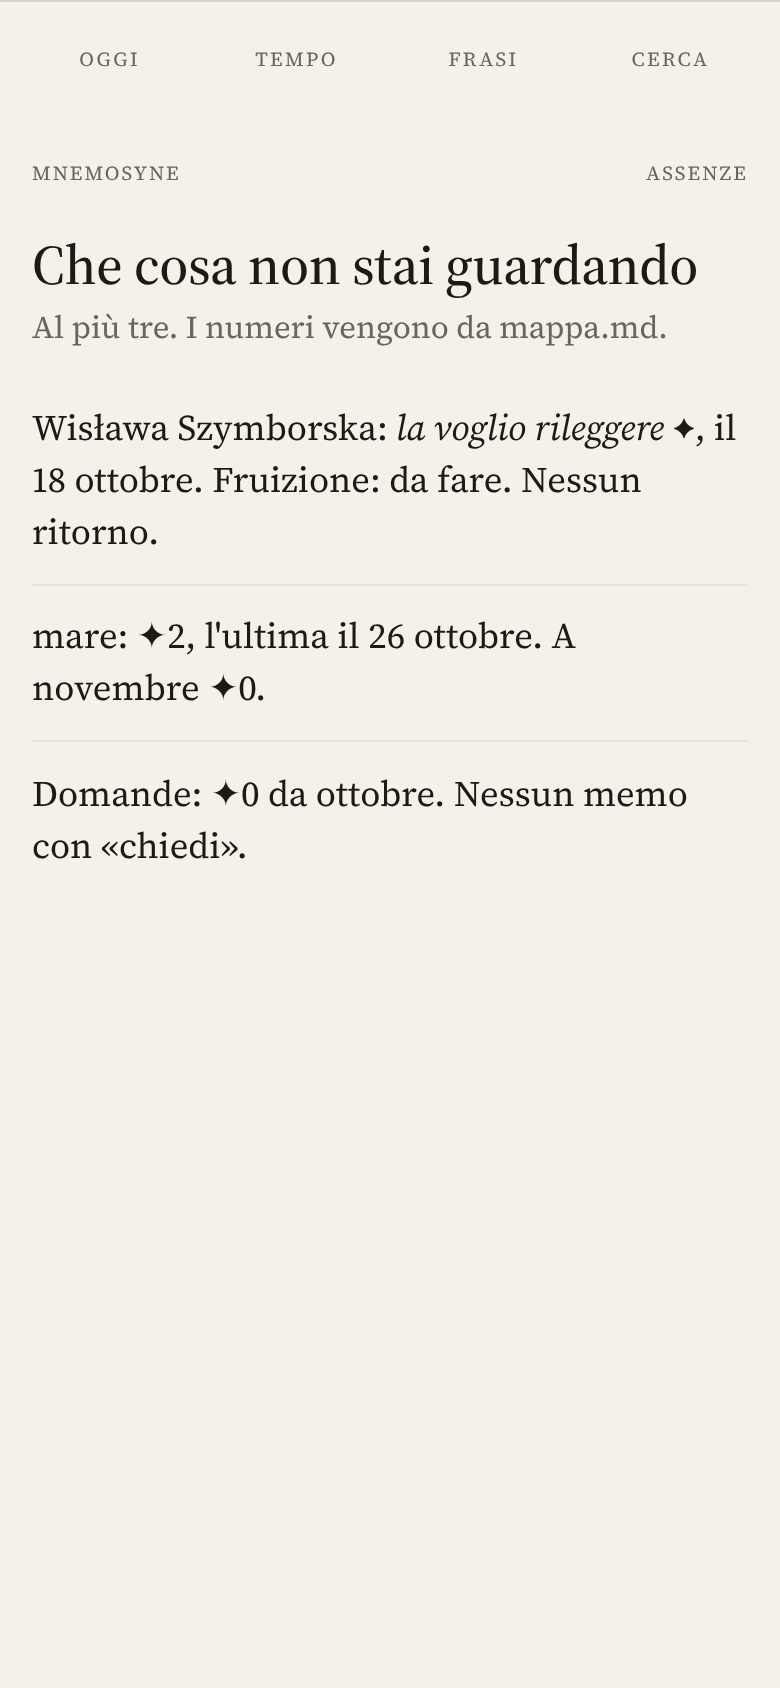
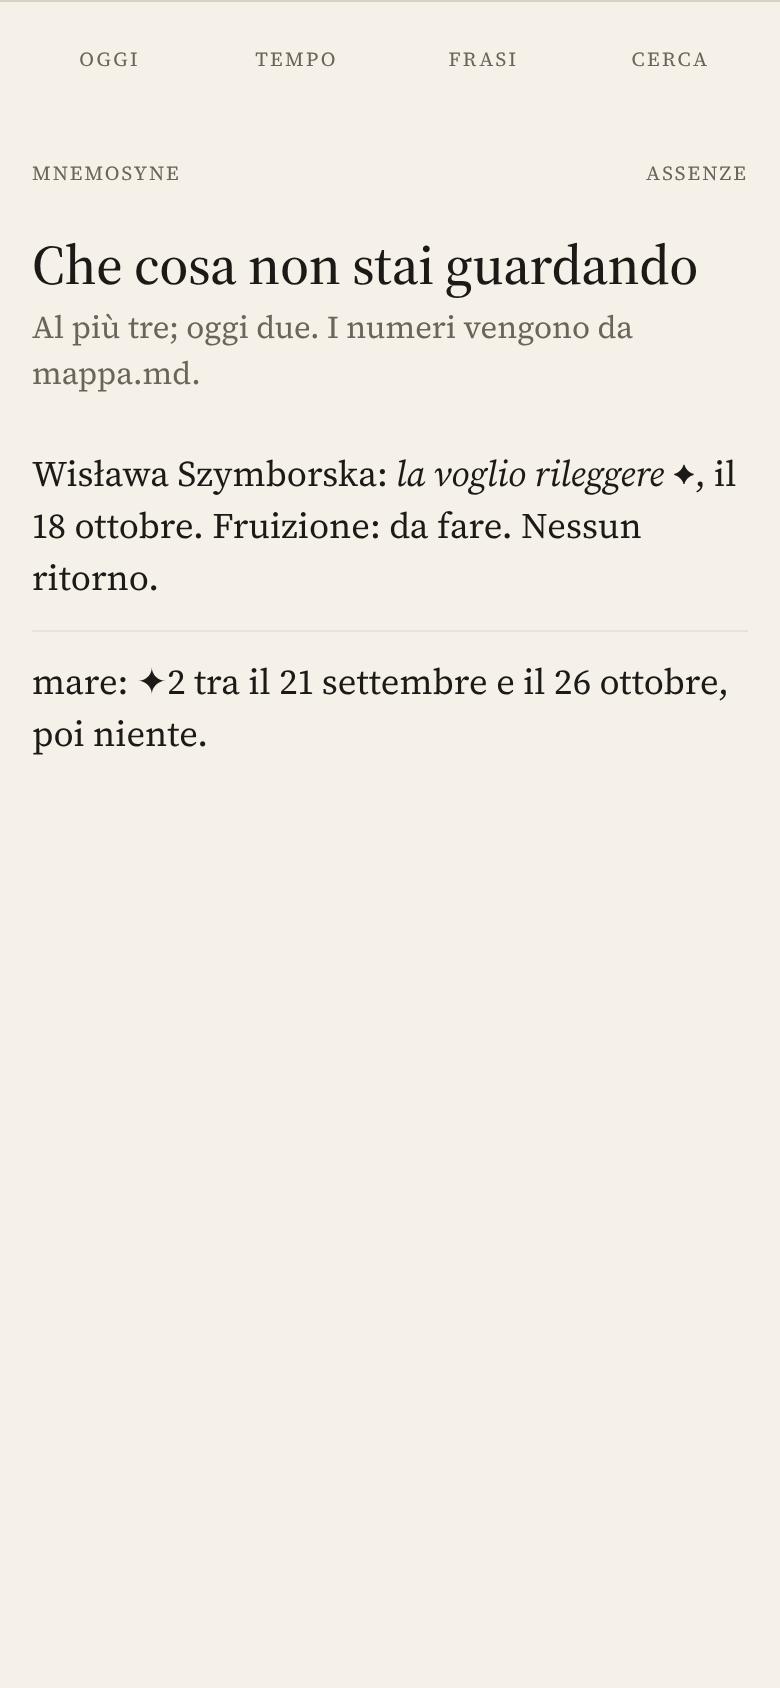
sito: progetto con gli esiti dei giudici e prototipo dopo il terzo giro
Claude-Session: https://claude.ai/code/session_016XqAM1Rx8kqhHBvQKPgQvy

diff --git a/progetto/sito/prototipo/index.html b/progetto/sito/prototipo/index.html
@@ -213,7 +213,8 @@ details[open] summary::before { content: "－ "; }
 mark { background: none; color: inherit; text-decoration: underline; text-decoration-thickness: 2px; text-underline-offset: .15em; }
 
 /* Il tempo: quadratini tutti uguali, senza scala */
-.nodo-soglia { padding-top: 6svh; }
+.nodo-soglia { padding-top: 6svh; min-height: 0; padding-bottom: 3em; }
+.piede .strati { margin: .2em 0 0; font-size: .66em; }
 .nodo-soglia h1 { margin-bottom: 1.2em; }
 .giorni { display: grid; grid-template-columns: repeat(7, 14px); gap: 4px; margin: .4em 0 .8em; }
 .giorni i { width: 14px; height: 14px; border: 1px solid var(--filo); border-radius: 2px; }
@@ -287,7 +288,7 @@ const NODI = {
   'le-citta-invisibili': { nome: 'Le città invisibili', genere: 'opere', autore: 'Italo Calvino', anno: 1972, conto: '✦2 · fruizione: fatta' },
   'wislawa-szymborska': { nome: 'Wisława Szymborska', genere: 'persone', cerchia: 'mondo', conto: '✦1 · fruizione: da fare' },
   'simone-weil': { nome: 'Simone Weil', genere: 'persone', cerchia: 'mondo', conto: '○1' },
-  'quello-che-cerchi-ti-sta-cercando': { nome: 'Quello che cerchi ti sta cercando', genere: 'citazioni', attribuita: 'Rumi', esito: null, conto: '✦1 · ⚠' },
+  'quello-che-cerchi-ti-sta-cercando': { nome: 'Quello che cerchi ti sta cercando', genere: 'citazioni', attribuita: 'Rumi', esito: null, conto: '✦1' },
   papa: { nome: 'papà', genere: 'persone', cerchia: 'vita' },
   tatuaggi: { nome: 'tatuaggi', genere: 'raccolte', scopo: null },
 };
@@ -385,7 +386,7 @@ function foglioVoce(n) {
   const rif = `${LETTERA.id}#${n}`;
   const segno = v.voce === 'proposta' ? 'tensione ◌, lettura mia' : 'mondo ○';
   return `<p class="sc">voce ${n} · ${segno}</p>
-    <p>${v.html}</p>
+    <p class="${v.voce === 'proposta' ? 'prop' : 'mondo'}">${v.html}${sg(v.voce === 'proposta' ? 'prop' : 'mondo')}</p>
     ${v.rifTesto ? `<p class="servizio">${esc(v.rifTesto)} · esito: ${v.esito ?? 'da verificare ⚠'}</p>` : `<p class="servizio">Il nome della tensione tra il 14 e il 29 ottobre. Nessun tuo ritorno ancora.</p>`}
     <p class="servizio">Indirizzo: ${rif}</p>
     <div class="gesti">
@@ -410,14 +411,13 @@ V.nodo = (slug) => {
       </div>
       <p class="servizio" style="margin-top:1.4em">la prima tiene insieme attenzione e <a href="#/nodo/aspettare">aspettare</a> · <a href="#/nodo/attenzione/tavola">la tavola →</a></p>
     </div>
+    <p class="conto">tema · nome tuo · ${CS(n.conto)}</p>
+    <div class="piede">${strati()}</div>
+    <div class="l2"><h2>dal mondo</h2><p class="mondo">Simone Weil${sg('mondo')}<span class="luogo">lettera del 1 novembre, voce 2 · Attente de Dieu, § 4 · verificata</span></p></div>
     <h2>le altre porte</h2>
     <ul class="righe">
       <li>${frase('20261003-1930-d4f1')}</li>
       <li>${frase('20260912-0000-u01')}</li></ul>
-    ${strati()}
-    <div class="l2"><h2>dal mondo</h2><p class="mondo">Simone Weil${sg('mondo')}<span class="luogo">lettera del 1 novembre, voce 2 · Attente de Dieu, § 4 · verificata</span></p></div>
-    <button class="nascosti" data-s="2">e 1 voce dal mondo<span class="sg"> ○</span></button>
-    <p class="conto" style="margin-top:2.4em">tema · nome tuo · ${CS(n.conto)}</p>
   </div>
   <aside class="lato"><h2>anteprima</h2>
     <p><a href="#/nodo/aspettare">aspettare</a> <span class="conto">${CS(NODI.aspettare.conto)}</span></p><p class="frase">${frase('20261029-2305-p8s3')}</p></aside></div>`;
@@ -469,7 +469,7 @@ V.frammento = (id) => {
   const i = ids.indexOf(id);
   const prima = ids[i - 1], dopo = ids[i + 1];
   if (f.delicato) {
-    return `<div class="pagina">${testa(dataL(f.reg) + ' · ' + ora(f.reg))}<p class="corpo" style="margin-top:2em">${esc(f.testo)}</p></div>`;
+    return `<div class="pagina">${testa(dataL(f.reg) + ' · ' + ora(f.reg))}<p class="corpo sua" style="margin-top:2em">${esc(f.testo)}${sg('sua')}</p></div>`;
   }
   const luoghi = { '20261014-2201-g6k2': 'in apertura, accanto al 29 ottobre', '20261029-2305-p8s3': 'in apertura, accanto al 14 ottobre', '20260929-2240-c2e9': 'in chiusura' };
   const citatoIn = luoghi[id] ? `<li><a href="#/r/${LETTERA.id}">Lettera di domenica 1 novembre</a> <span class="servizio">· ${luoghi[id]}</span></li>` : '';
@@ -488,7 +488,7 @@ V.frammento = (id) => {
       ${prima ? `<a href="#/frammento/${prima}"><small>← giorno prima</small>${dataL(F[prima].reg)}</a>` : '<span></span>'}
       ${dopo ? `<a href="#/frammento/${dopo}" style="text-align:right"><small>giorno dopo →</small>${dataL(F[dopo].reg)}</a>` : '<span></span>'}
       ${(f.temi || []).length ? `<a href="#/nodo/${f.temi[0]}"><small>nel filo</small>${NODI[f.temi[0]].nome}</a>` : ''}
-      ${(() => { const t = (f.temi || [])[0]; if (!t) return ''; const v = Object.keys(F).find((k) => k !== id && !F[k].delicato && (F[k].temi || []).includes(t) && gg(F[k].reg, f.reg) > 7); return v ? `<a class="l2" href="#/frammento/${v}" style="text-align:right"><small>◌ vicino · anche lei su «${NODI[t].nome}»</small>${dataL(F[v].reg)}</a>` : ''; })()}
+      ${(() => { const t = (f.temi || [])[0]; if (!t) return ''; const v = Object.keys(F).find((k) => k !== id && !F[k].delicato && (F[k].temi || []).includes(t) && gg(F[k].reg, f.reg) > 7); return v ? `<a class="l2" href="#/frammento/${v}" style="text-align:right"><small>◌ vicino · anche lei su ${NODI[t].nome}</small>${dataL(F[v].reg)}</a>` : ''; })()}
     </div>
   </div>`;
 };
@@ -513,7 +513,7 @@ V.tempo = () => {
     </section>
     <section class="mese"><h2>ottobre 2026</h2>
       ${giorniMese(2026, 9, [3, 8, 11, 14, 18, 20, 22, 26, 29, 30])}
-      <p class="conto">9 frammenti parlanti e 1 delicato · 10 giorni attivi</p>
+      <p class="conto">9 frammenti parlanti e 1 delicato · 10 giorni attivi · e 1 link senza parole</p>
       <h2 style="margin-top:1.2em">posizioni</h2>
       <div class="pos">${frase('20261014-2201-g6k2')}<span class="luogo">dal 14 ottobre · messa in discussione il 29 ottobre</span></div>
       <div class="pos">${frase('20261029-2305-p8s3')}<span class="luogo">dal 29 ottobre · tensione con il 14 ottobre</span></div>
@@ -558,7 +558,7 @@ V.cerca = () => `<div class="pagina">${testa('cerca')}
   <div id="ris"></div></div>`;
 
 function risultati(q) {
-  q = q.trim().toLowerCase(); if (!q) return '<p class="servizio">Le tue parole, i nomi, le restituzioni.</p>';
+  q = q.trim().toLowerCase(); if (!q) return '<p class="servizio">Le tue parole e i nomi.</p>';
   const norm = (s) => s.normalize('NFD').replace(/\p{M}/gu, '').toLowerCase();
   const tuoi = Object.keys(F).filter((id) => !F[id].delicato && !F[id].nonParlante && norm(F[id].testo).includes(norm(q))).reverse();
   const nodi = Object.keys(NODI).filter((s) => norm(NODI[s].nome).includes(norm(q)));
@@ -569,11 +569,10 @@ function risultati(q) {
 
 V.assenze = () => `<div class="pagina">${testa('assenze')}
   <h1>Che cosa non stai guardando</h1>
-  <p class="servizio">Al più tre. I numeri vengono da mappa.md.</p>
+  <p class="servizio">Al più tre; oggi due. I numeri vengono da mappa.md.</p>
   <ol class="righe">
     <li><a href="#/nodo/wislawa-szymborska">Wisława Szymborska</a>: <span class="sua">la voglio rileggere</span>${sg('sua')}, il 18 ottobre. Fruizione: da fare. Nessun ritorno.</li>
-    <li><a href="#/nodo/mare">mare</a>: ✦2, l'ultima il 26 ottobre. A novembre ✦0.</li>
-    <li>Domande: ✦0 da ottobre. Nessun memo con «chiedi».</li>
+    <li><a href="#/nodo/mare">mare</a>: ✦2 tra il 21 settembre e il 26 ottobre, poi niente.</li>
   </ol></div>`;
 
 V.tatuaggi = (stampa) => {
@@ -591,7 +590,7 @@ V.tatuaggi = (stampa) => {
     <h1>tatuaggi</h1>
     <p class="servizio" style="margin:0">senza scopo</p>
     <div class="campo-t" style="margin-top:14px">
-      <p class="legenda">${sg('sua')} tue · ${sg('mondo')} mondo${stampa ? '' : ' · ' + sg('prop') + ' mia'}</p>
+      <p class="legenda">${sg('sua')} tue · ${sg('mondo')} mondo</p>
       <div class="pezzi">
         ${pezzo('20261008-0745-e8a0')}
         <div class="filo-t">✦ linea</div>
@@ -601,7 +600,7 @@ V.tatuaggi = (stampa) => {
         <div class="filo-t">✦ faro</div>
         ${pezzo('20261027-1302-t9v4')}
       </div>
-      ${stampa ? '' : `<div class="margine">una bussola senza ago${sg('prop')} <span style="display:block;font-size:.85em">un’idea di Claude, arrivata con l’importazione · <a href="#/nodo/tatuaggi" style="color:inherit">le altre idee</a></span></div>`}
+      ${stampa ? '' : `<div class="margine"><a href="#/nodo/tatuaggi" style="color:inherit">le idee arrivate con l’importazione →</a></div>`}
     </div>
     ${stampa ? `<p class="servizio no-stampa" style="margin-top:1em">Senza proposte ◌, senza delicati, senza persone della tua vita. <a href="#/tatuaggi">← la tavola</a> · <a href="javascript:print()">stampa</a></p>` : `<p class="servizio" style="margin-top:1em"><a href="#/tatuaggi/stampa">il brief da stampare →</a></p>`}
   </div>`;

diff --git a/progetto/sito/progetto.md b/progetto/sito/progetto.md
@@ -478,13 +478,15 @@ da due o più pezzi; gli `allegati` (WebP cifrate); per i pin, il `link[].titolo
   Un pin è una carta tipografica: il titolo dal link e ↗, **nessuna miniatura e nessun embed**.
 - Un ○ dentro il pezzo, se il pezzo nomina un testo verificato: una riga tra «», con opera e passo.
 - I **fili**: un'etichetta tratteggiata tra i pezzi che condividono un nodo («✦ linea», «✦ faro»).
-- **Ai margini**, fuori dal campo, in grigio: **un solo** ◌, l'idea `eredita` più vicina ai pezzi grandi (deterministica:
-  più legami verso nodi che i pezzi ✦ nominano), e «le 6 idee ◌» che apre la pagina della raccolta (Forma A).
+- **Ai margini**, fuori dal campo: un solo link, «le idee arrivate con l'importazione →», che apre la pagina della
+  raccolta (Forma A) con le `eredita` ◌. **Nessuna idea ◌ in vista sul campo.** Vista-tatuaggi proponeva un ◌ ai
+  margini; il giudice delle regole (terzo giro) ha fatto notare che un'`eredita` «non si rilancia» (`CLAUDE.md`,
+  regola 5): mostrarne una scelta dal sito è rilanciarla. Senza conti («le 6 idee» era un contatore).
 - «il brief da stampare →».
 - **A 1440 px**: la griglia a 12 colonne, grande su 5×2, medio su 4, piccolo su 3.
 
 **La stampa** (`tatuaggi-stampa-tel.png`, e `@media print`). Fondo bianco, pezzi con il bordo, i segni restano (il
-tatuatore deve sapere che cosa è tuo). Fuori: il ◌ dei margini, ogni pezzo delicato, ogni pezzo che nomina una persona
+tatuatore deve sapere che cosa è tuo). Fuori: il link alle idee importate, ogni pezzo delicato, ogni pezzo che nomina una persona
 `cerchia: vita`, la barra, i link. Il filtro si fa sui **dati** (la funzione esclude), non solo con il CSS. È l'unica
 uscita voluta del sito.
 
@@ -683,18 +685,47 @@ rumore) e passa con **zero violazioni sostanziali**. Al più tre giri; gli esiti
 
 ## 9. Gli esiti dei giudici sul prototipo
 
-<!-- ESITI -->
+Due subagent separati, senza il ragionamento di questa sessione, a ogni giro. **Giudice A** (le regole): ha
+`CLAUDE.md`, il prototipo e le foto, e cerca le violazioni. **Giudice B** (la meraviglia): ha solo cinque foto
+(soglia chiara, scura, desktop; nodo; tavola del nodo) e un brief di tre righe; risponde sì o no, e «sì con riserve»
+vale no. Al più tre giri.
+
+| giro | giudice A (regole) | giudice B: soglia | giudice B: nodo |
+|---|---|---|---|
+| 1 | **non passa**: 9 violazioni, 4 sostanziali (un ○ senza passo sul nodo citazione; la coppia della lettera non era forte e il ◌ era una convergenza banale; conti con gli importati dentro e un «30 giorni attivi» impossibile; vicini senza legame nella tavola) | **no**: «sotto c'è una griglia di quattro riquadri che sembra un menu» | **no**: «le stesse quattro frasi compaiono due volte», una riga tecnica in testa |
+| 2 | **non passa**: 4 sostanziali (la lettera diventava due cose, Weil sull'attenzione e la coppia sull'attesa; un ⚠ mancante su un legame a una citazione; un conto con un importato; le porte con frasi ✦ nel periodo delicato) | **sì**: «due mie frasi che si smentiscono, con 15 giorni in mezzo, e nient'altro: mi colgo in flagrante» | **no**: «sembra il pannello di un database»; la frase più bella sepolta sotto «le porte» |
+| 3 | **passa**: nessuna violazione sostanziale; i conti tornano con i frammenti sintetici. 9 minori | **sì**: «è come trovarmi colto in flagrante da me stesso. Non c'è niente intorno e niente spiega» | **no**: la parte alta tiene; poi un vuoto lungo e il selettore a pillola: «smetto di leggermi e comincio a usare un programma» |
+
+**Che cosa è cambiato tra i giri.**
+- La soglia ha una sola coppia nella prima schermata; le porte sono dopo lo scorrimento e senza frasi.
+- La lettera sintetica è diventata una tensione (14 e 29 ottobre), con una sola voce ○ verificata sullo stesso tema e la
+  chiusa su una frase ✦ che tiene insieme attenzione e attesa.
+- Il nodo si apre come la soglia, con due frasi accostate; conti, genere e selettore sono scesi sotto.
+- Ogni ○ ha il suo luogo; i conti escludono gli importati.
+
+**Dopo il terzo giro** (non rigiudicate, perché i giri erano finiti): le 9 minori del giudice A sono corrette (il ◌ dei
+margini dei tatuaggi tolto, la legenda in ordine, il ✦ sul delicato aperto, un ⚠ doppio, le «» su un nome, una
+promessa della ricerca, un'assenza che suonava come sollecito, il segno nel foglio della voce). Sul nodo: è sparito il
+vuoto, e il selettore è sceso sotto i conti, in piccolo; la pagina finisce su una frase.
+
+**Esito: il nodo non è passato al giudice della meraviglia in tre giri.** La tensione è reale: il principio 4 vuole lo
+stesso selettore su ogni vista calcolata, e il giudice lo legge come «un programma». La proposta, da provare in B5
+con il giudice cieco: sul nodo il selettore diventa una riga di servizio in fondo alla pagina («mostra anche le mie
+proposte»), e la tavola del nodo si offre solo quando ha almeno tre vicini tenuti da tue frasi (con due, «non mi
+mostra niente che non sapessi già»).
 
 ---
 
 ## 10. Dubbi aperti
 
-1. **La soglia ha una sola cosa, ma due stati che si alternano** (la coppia e il ritorno). Se le restituzioni sono
+1. **Il nodo non ha ancora la sua meraviglia** (§9): il selettore degli strati e una tavola povera. È il primo lavoro di
+   B5.
+2. **La soglia ha una sola cosa, ma due stati che si alternano** (la coppia e il ritorno). Se le restituzioni sono
    frequenti, il ritorno non compare quasi mai. Da guardare dopo un mese (B10).
-2. **Il campo scuro dei tatuaggi anche nel tema chiaro** è una scelta di forma, non di tema: va confermata dall'utente.
-3. **L'intervallo in giorni** («15 giorni») è un numero calcolato, non preso da `mappa.md`. È un conto di calendario, non
+3. **Il campo scuro dei tatuaggi anche nel tema chiaro** è una scelta di forma, non di tema: va confermata dall'utente.
+4. **L'intervallo in giorni** («15 giorni») è un numero calcolato, non preso da `mappa.md`. È un conto di calendario, non
    una soglia; se la regola 2 di `CLAUDE.md` lo volesse in `contesto/`, va tolto.
-4. **Il bersaglio del gesto**: id nel testo o campo `da-sito` (§7.2.1).
-5. **Le persone della vita nella pagina di un tema** (una tua frase che nomina «mio padre» come porta): sono parole tue,
+5. **Il bersaglio del gesto**: id nel testo o campo `da-sito` (§7.2.1).
+6. **Le persone della vita nella pagina di un tema** (una tua frase che nomina «mio padre» come porta): sono parole tue,
    viste solo da te, e restano. Non diventano mai vicini né ponti.
-6. **I font da Google nel prototipo**: nel sito vero sono self-hosted; il prototipo pubblicato chiama Google Fonts.
+7. **I font da Google nel prototipo**: nel sito vero sono self-hosted; il prototipo pubblicato chiama Google Fonts.
